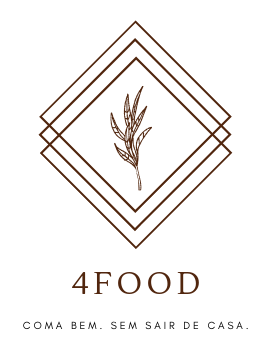
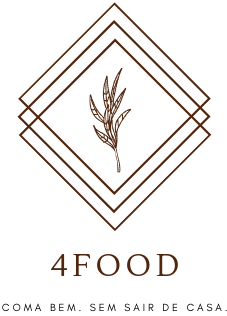
Atualizado 13/06 head centralizado

diff --git a/Projeto/index.html b/Projeto/index.html
@@ -18,7 +18,6 @@
             <img id="logo" src="img/4food.png" alt="Logo 4food">
         </div>
         <div class="quebra">
-
             <a class="nav" href="#nav1">Home</a>
             <a class="nav" href="#nav2">Como Funciona</a>
             <a class="nav" href="#nav3">Compras Online</a>
@@ -121,11 +120,6 @@
             </div>
         </div>
     </section>
-            <a class="nav" href="#contato">Home</a>
-            <a class="nav" href="#contato">Como Funciona</a>
-            <a class="nav" href="#contato">Compras Online</a>
-            <a class="nav" href="#contato">Área de Entrega</a>
-        </div>
     </header>
 <body>
 </body>

diff --git a/Projeto/style.css b/Projeto/style.css
@@ -6,18 +6,16 @@
 header {
     display: flex;
     align-items: center;
+    justify-content: center;
 }
 
 
 header > div > img {
-
-div > img {
-
     height: 5vh;
 }
 
 #logo {
-    height: 25vh;
+    height: 15vh;
 }
 
 .nav {
@@ -28,12 +26,13 @@ div > img {
     border-color: #A18A7D;
     color: #8b5a3e;
     text-decoration: none;
+
 }
 
 .quebra {
     display: flex;
-    align-items: center;
     text-align: center;
+    height: 5vh;
 }
 
 #login {
